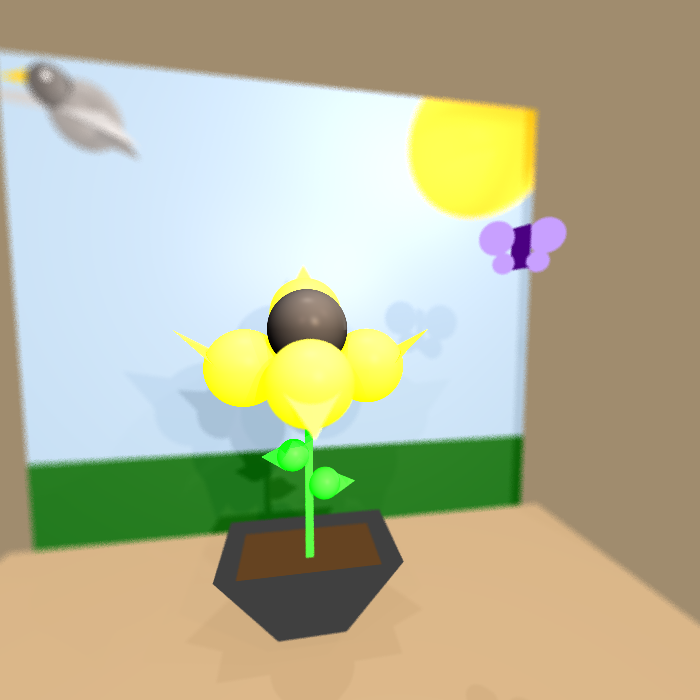
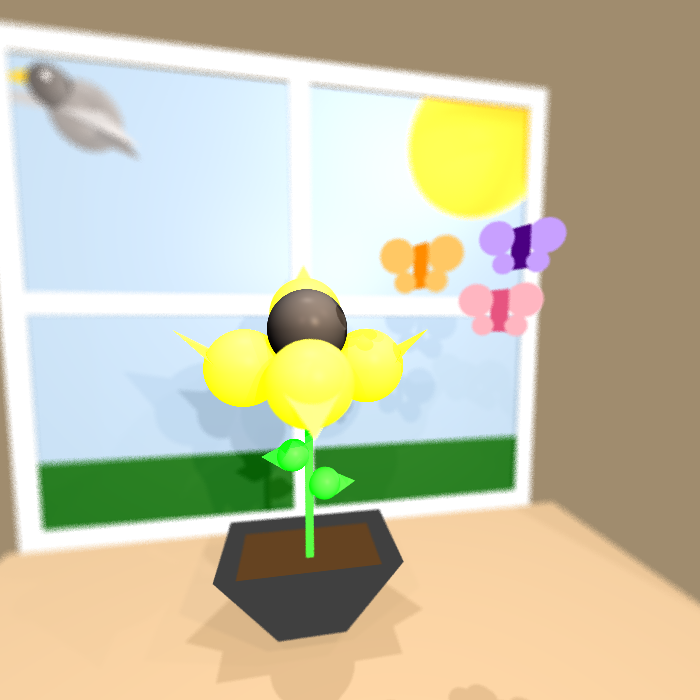
Fixing107

Changed region(s): [[0.0, 0.03, 1.0, 1.0], [0.42, 0.6, 0.45, 0.63]]

diff --git a/unittests/renderer/Mp2Tests.java b/unittests/renderer/Mp2Tests.java
@@ -130,6 +130,24 @@ class Mp2Tests {
                     new Point(25, -20, -28.75),
                     new Point(25, 24, -28.75))
                     .setEmission(new Color( 255, 255, 255)),
+            //The Bottom of the window
+            new Polygon(new Point(25, -20, -28.75),
+                    new Point(25, -18, -28.75),
+                    new Point(-25, -18, -28.75),
+                    new Point(-25, -20, -28.75))
+                    .setEmission(new Color( 255, 255, 255)),
+             //The middle left to right
+            new Polygon(new Point(-25, 1, -28.75),
+                    new Point(-25, 3, -28.75),
+                    new Point(25, 3, -28.75),
+                    new Point(25, 1, -28.75))
+                    .setEmission(new Color( 255, 255, 255)),
+            //The middle up to down
+            new Polygon(new Point(-1, 22, -28.75),
+                    new Point(1, 22, -28.75),
+                    new Point(1, -20, -28.75),
+                    new Point(-1, -20, -28.75))
+                    .setEmission(new Color( 255, 255, 255)),
 
              //The wall at the front side of the window
             //The Top of the window
@@ -170,12 +188,12 @@ class Mp2Tests {
                     new Point(-30, -40, -29))
                     .setEmission(new Color(160, 140, 110)),
             //The base
-            new Polygon(new Point(-26, -20, 5),
-                    new Point(26, -20, 5),
-                    new Point(26, -20, -29),
+            new Polygon(new Point(-26, -20, 2),
+                    new Point(28, -20, 2),
+                    new Point(28, -20, -29),
                     new Point(-26, -20, -29))
                     .setEmission(new Color(205, 170, 125))
-                    .setMaterial(new Material().setKd(0.1).setKs(0.2).setShininess(30)),
+                    .setMaterial(new Material().setKd(0.3).setKs(0.3).setShininess(30)),
 
             //The flower
             //Up-Yellow
@@ -357,7 +375,7 @@ class Mp2Tests {
      * It uses BVH for optimization.
      */
     @Test
-    void test2(){//Time: 2 min 12 sec
+    void test2(){//Time: 2 min 55 sec
         // Create a camera with a specific location and direction
         Camera cam1 = Camera.getBuilder()
                 .setLocation(new Point(-1, 0.5, 5))
@@ -403,7 +421,7 @@ class Mp2Tests {
      * It doesn't use BVH for optimization.
      */
     @Test
-    void test4(){//Time: 2 min 58 sec
+    void test4(){//Time: 4 min 51 sec
         // Create a camera with a specific location and direction
         Camera cam1 = Camera.getBuilder()
                 .setLocation(new Point(-1, 0.5, 5))
